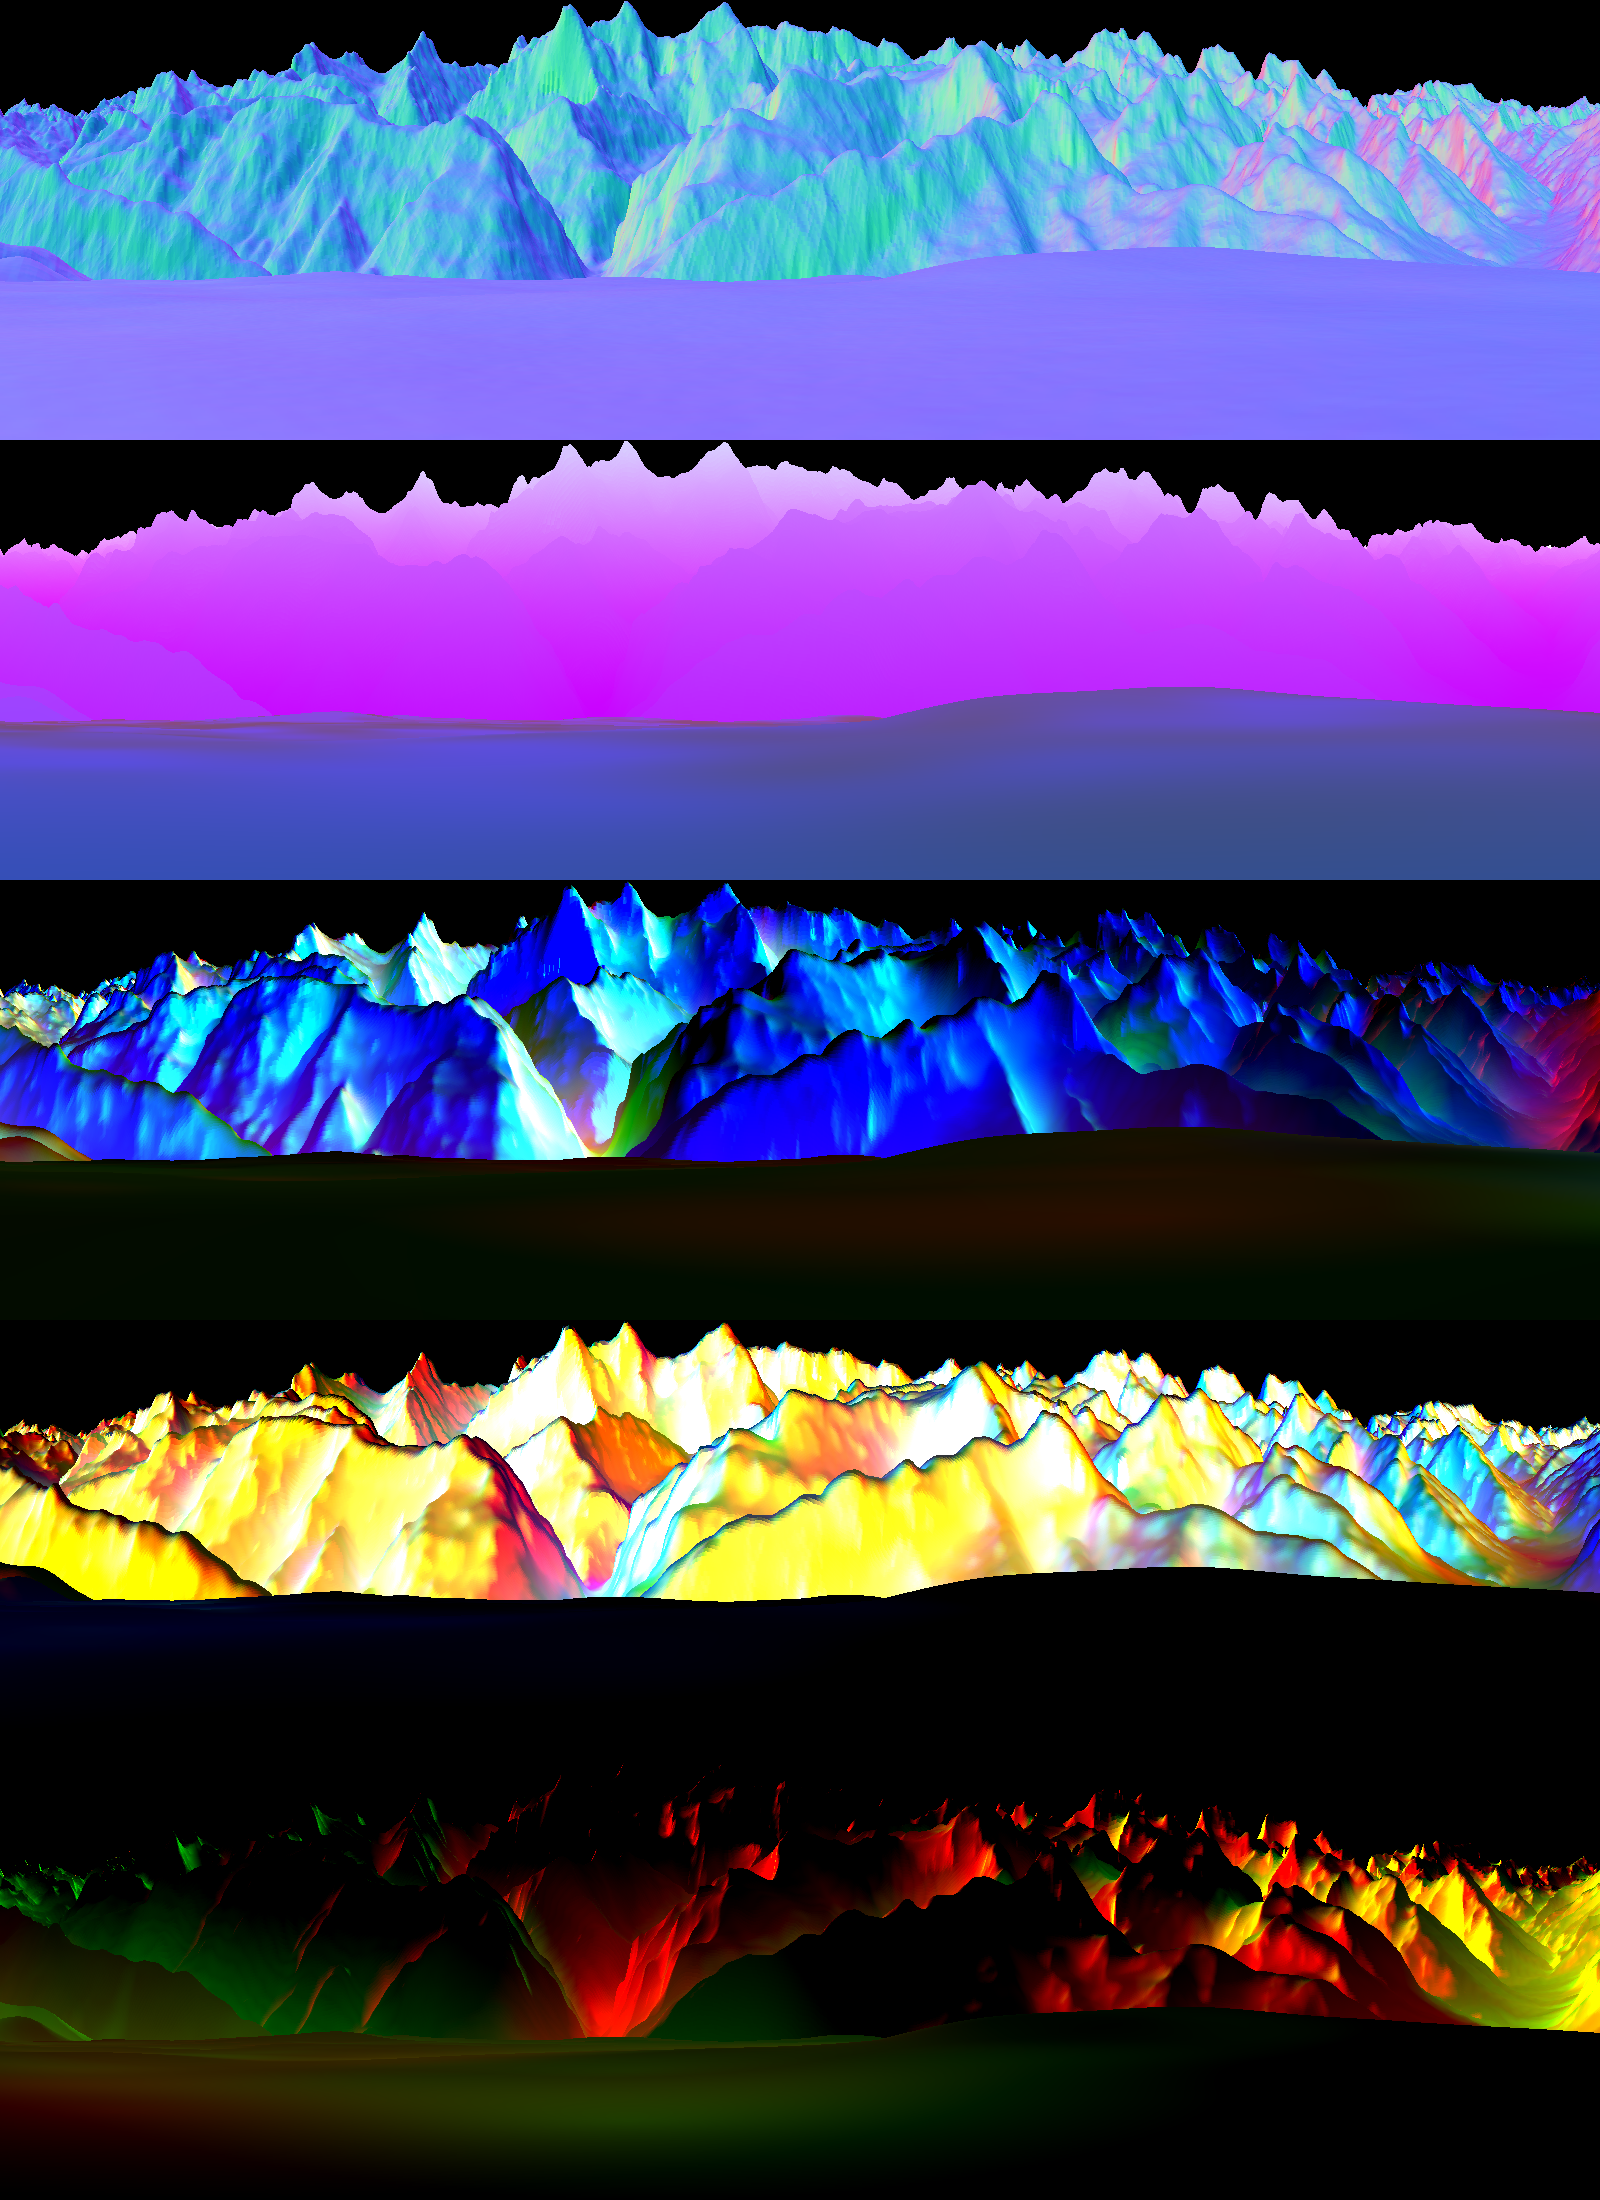
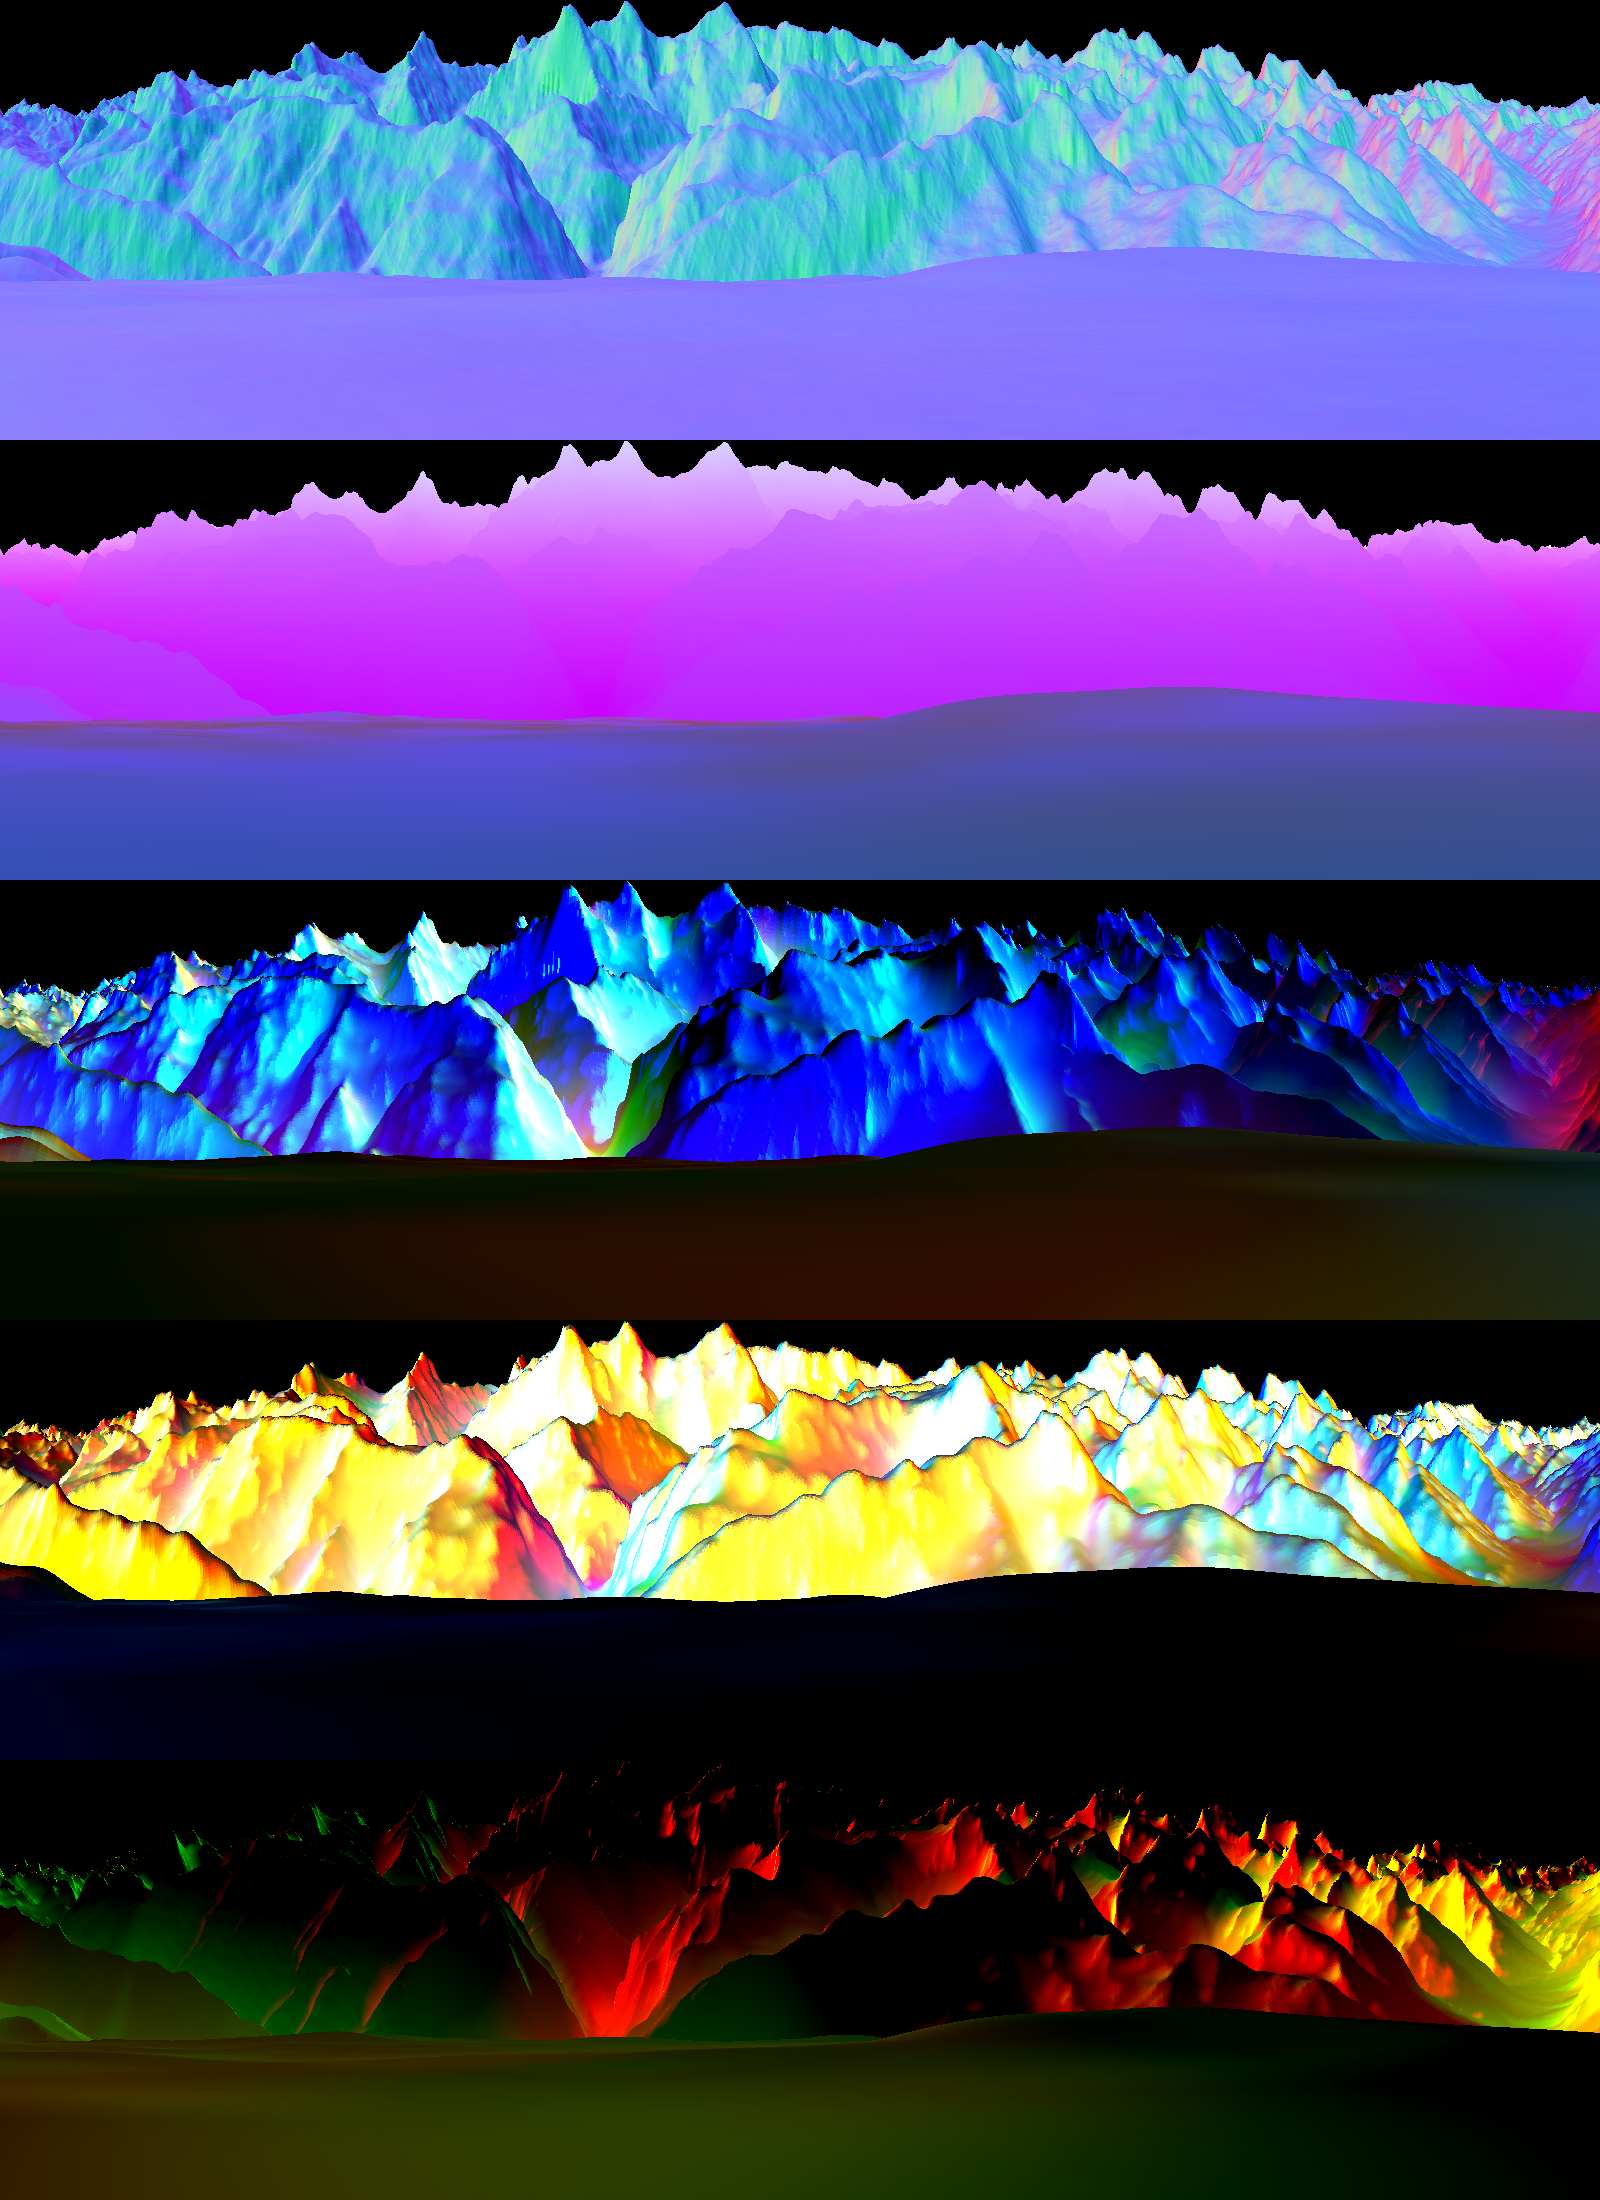
feat(garden): foreground depth — near horizon samples, larger near blades, bottom falloff, meadow ambient

diff --git a/src/lib/garden/detail.ts b/src/lib/garden/detail.ts
@@ -90,13 +90,14 @@ export function renderMeadow(W: number, bandH: number, scale: number): HTMLCanva
 	// Blades: uniform on screen, so they crowd and shrink toward the horizon.
 	const rng = makePRNG(0x6EAD0);
 	const count = Math.round((W * bandH) / (34 * scale * scale));
+	const near = Math.round(count * 0.5);                // extra blades in the bottom quarter
 	ctx.lineCap = 'round';
 	const BLADE: RGB[] = [[120, 140, 82], [150, 160, 96], [96, 116, 70], [214, 196, 140], [176, 168, 110]];
-	for (let i = 0; i < count; i++) {
-		const t = Math.pow(rng(), 0.85);
+	for (let i = 0; i < count + near; i++) {
+		const t = i < count ? Math.pow(rng(), 0.85) : 0.75 + 0.25 * rng();
 		const x = rng() * W;
 		const y = t * bandH;
-		const size = (0.12 + 1.5 * Math.pow(t, 1.4)) * scale;
+		const size = (0.12 + 1.7 * Math.pow(t, 1.1)) * scale;
 		const h = (3 + rng() * 6) * size;
 		const lean = (rng() - 0.35) * h * 0.6;
 		ctx.globalAlpha = 0.35 + rng() * 0.35;
@@ -108,6 +109,13 @@ export function renderMeadow(W: number, bandH: number, scale: number): HTMLCanva
 		ctx.stroke();
 	}
 	ctx.globalAlpha = 1;
+
+	// The nearest ground falls off a little, as a lens's lower edge does.
+	const fall = ctx.createLinearGradient(0, bandH * 0.7, 0, bandH);
+	fall.addColorStop(0, 'rgba(255,255,255,0)');
+	fall.addColorStop(1, 'rgba(150,150,140,0.55)');
+	ctx.fillStyle = fall;
+	ctx.fillRect(0, bandH * 0.7, W, bandH * 0.3);
 	return c;
 }
 

diff --git a/src/lib/garden/terrain.ts b/src/lib/garden/terrain.ts
@@ -151,7 +151,8 @@ export function relightTerrain(t: Terrain, L: TerrainLight, out?: HTMLCanvasElem
 			if (L.snowLine !== null) alb = mix(alb, SNOW, sm(L.snowLine, L.snowLine + 250, e + g * 150) * (1 - sm(0.4, 0.65, slope)));
 		}
 
-		const amb = 0.18 + 0.32 * nz * nz;
+		// The meadow is open to the whole sky; at dusk it still reads as grass.
+		const amb = 0.18 + 0.32 * nz * nz + (t.meadow[i] ? 0.22 : 0);
 		let col: RGB = [
 			(alb[0] / 255) * (L.sunCol[0] * diff * 1.05 + L.sky[0] * amb),
 			(alb[1] / 255) * (L.sunCol[1] * diff * 1.05 + L.sky[1] * amb),

diff --git a/scripts/bake-terrain.py b/scripts/bake-terrain.py
@@ -250,7 +250,8 @@ def bake(name, site, cache, outdir, ncol=1600, nrow_top=280, nrow_bot=160):
     n = np.stack([-gx, -gy, np.ones_like(gx)], axis=-1)
     n /= np.linalg.norm(n, axis=-1, keepdims=True)
     hz = np.zeros(mask.shape + (HDIRS,))
-    steps = np.concatenate([np.arange(60, 1000, 60), np.arange(1000, HRANGE + 1, 250)])
+    # The near steps let a meadow swell shade the ground just behind it.
+    steps = np.concatenate([[6, 12, 24, 40], np.arange(60, 1000, 60), np.arange(1000, HRANGE + 1, 250)])
     for k in range(HDIRS):
         a = math.radians(k * 45)
         best = np.zeros(mask.shape)
